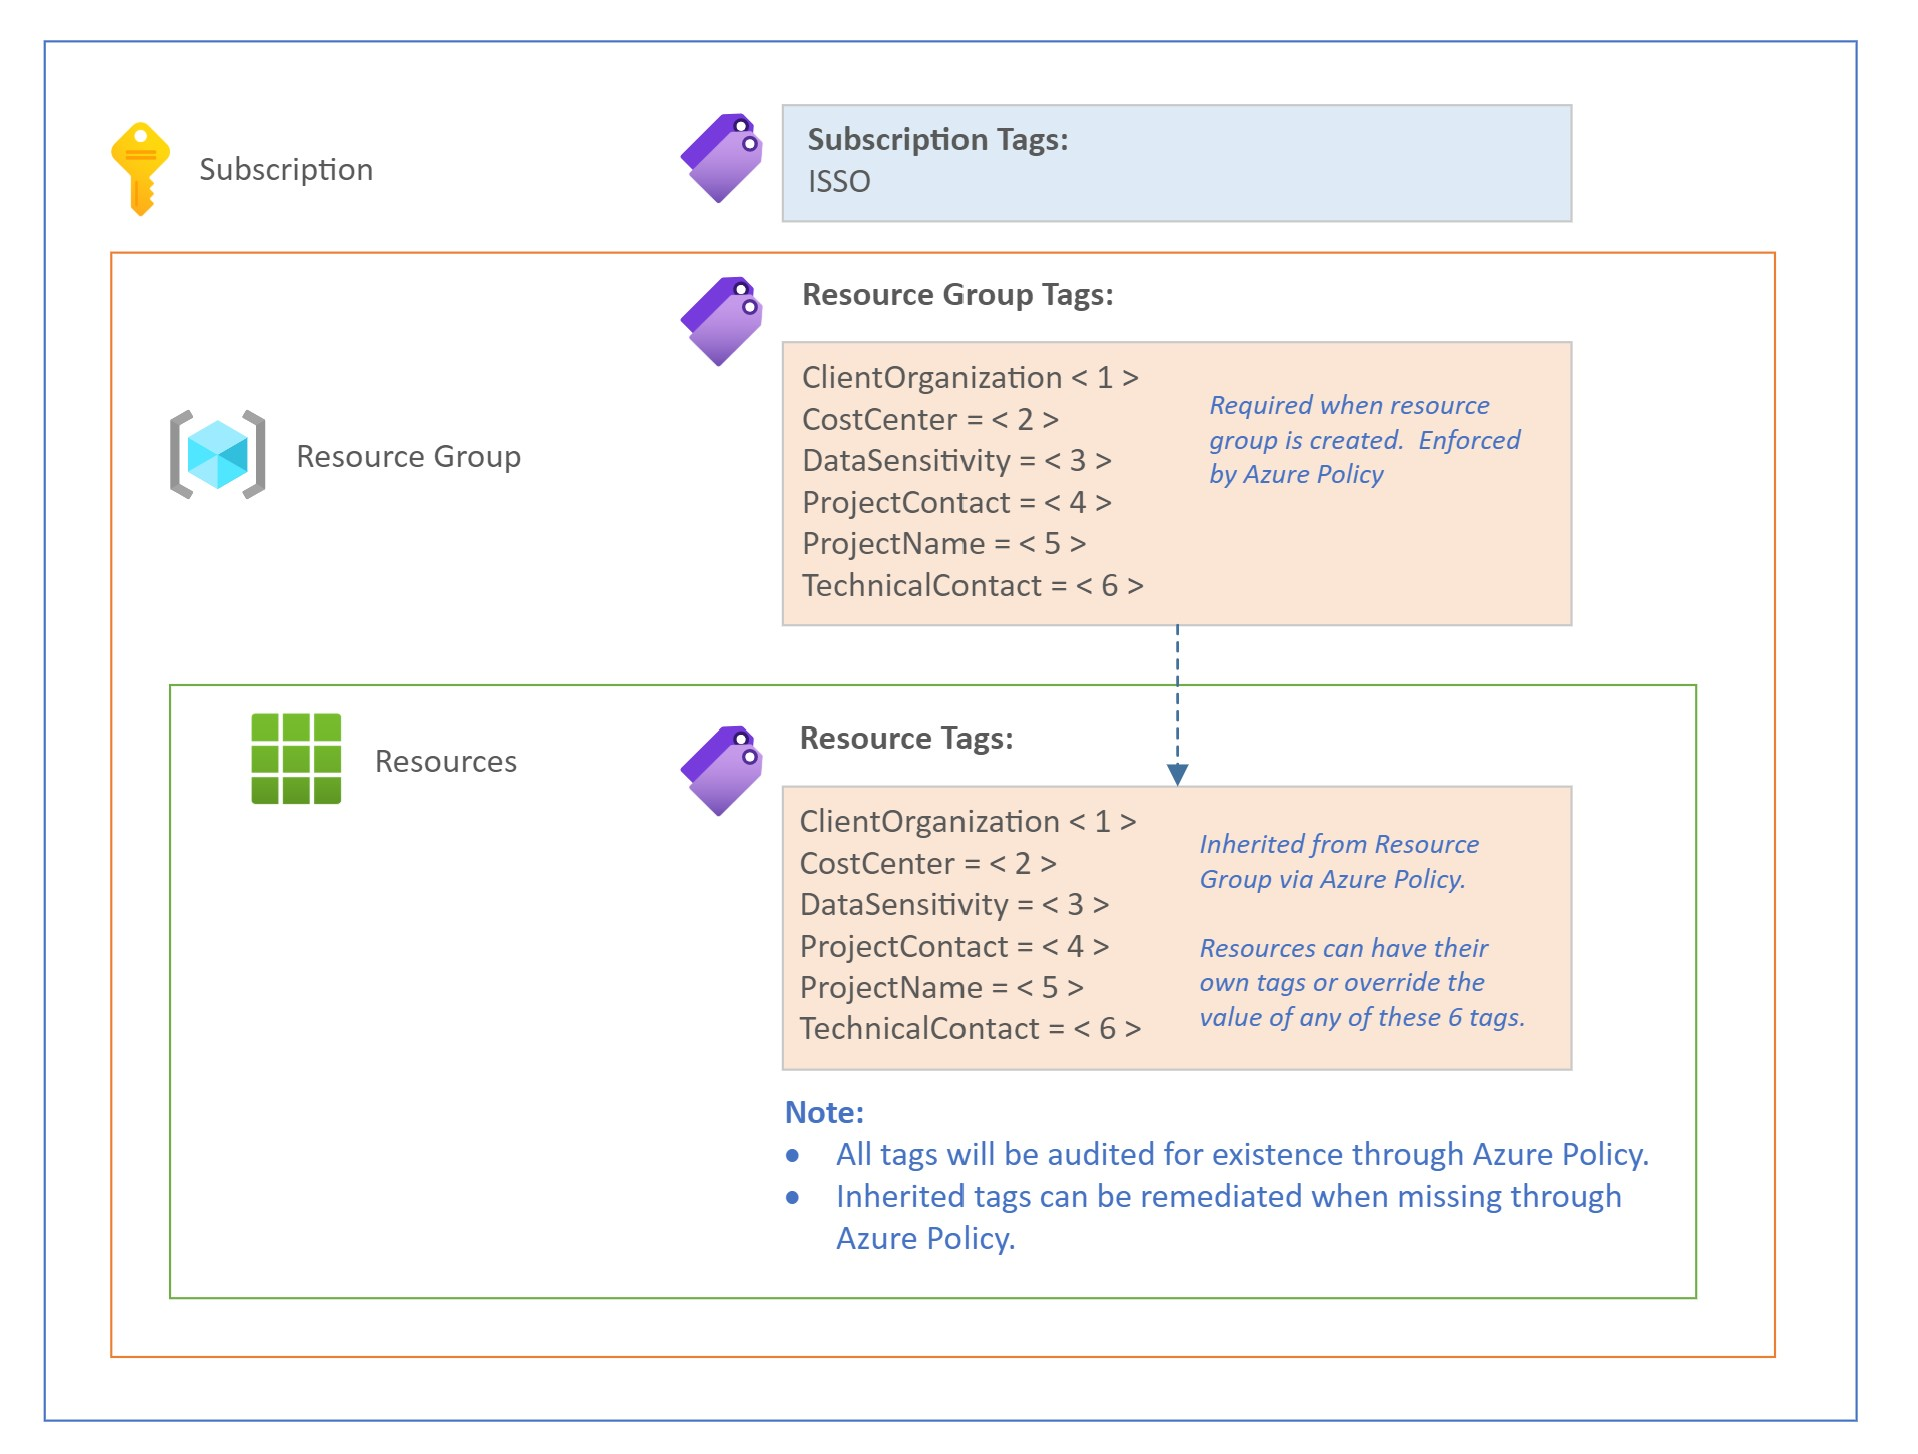
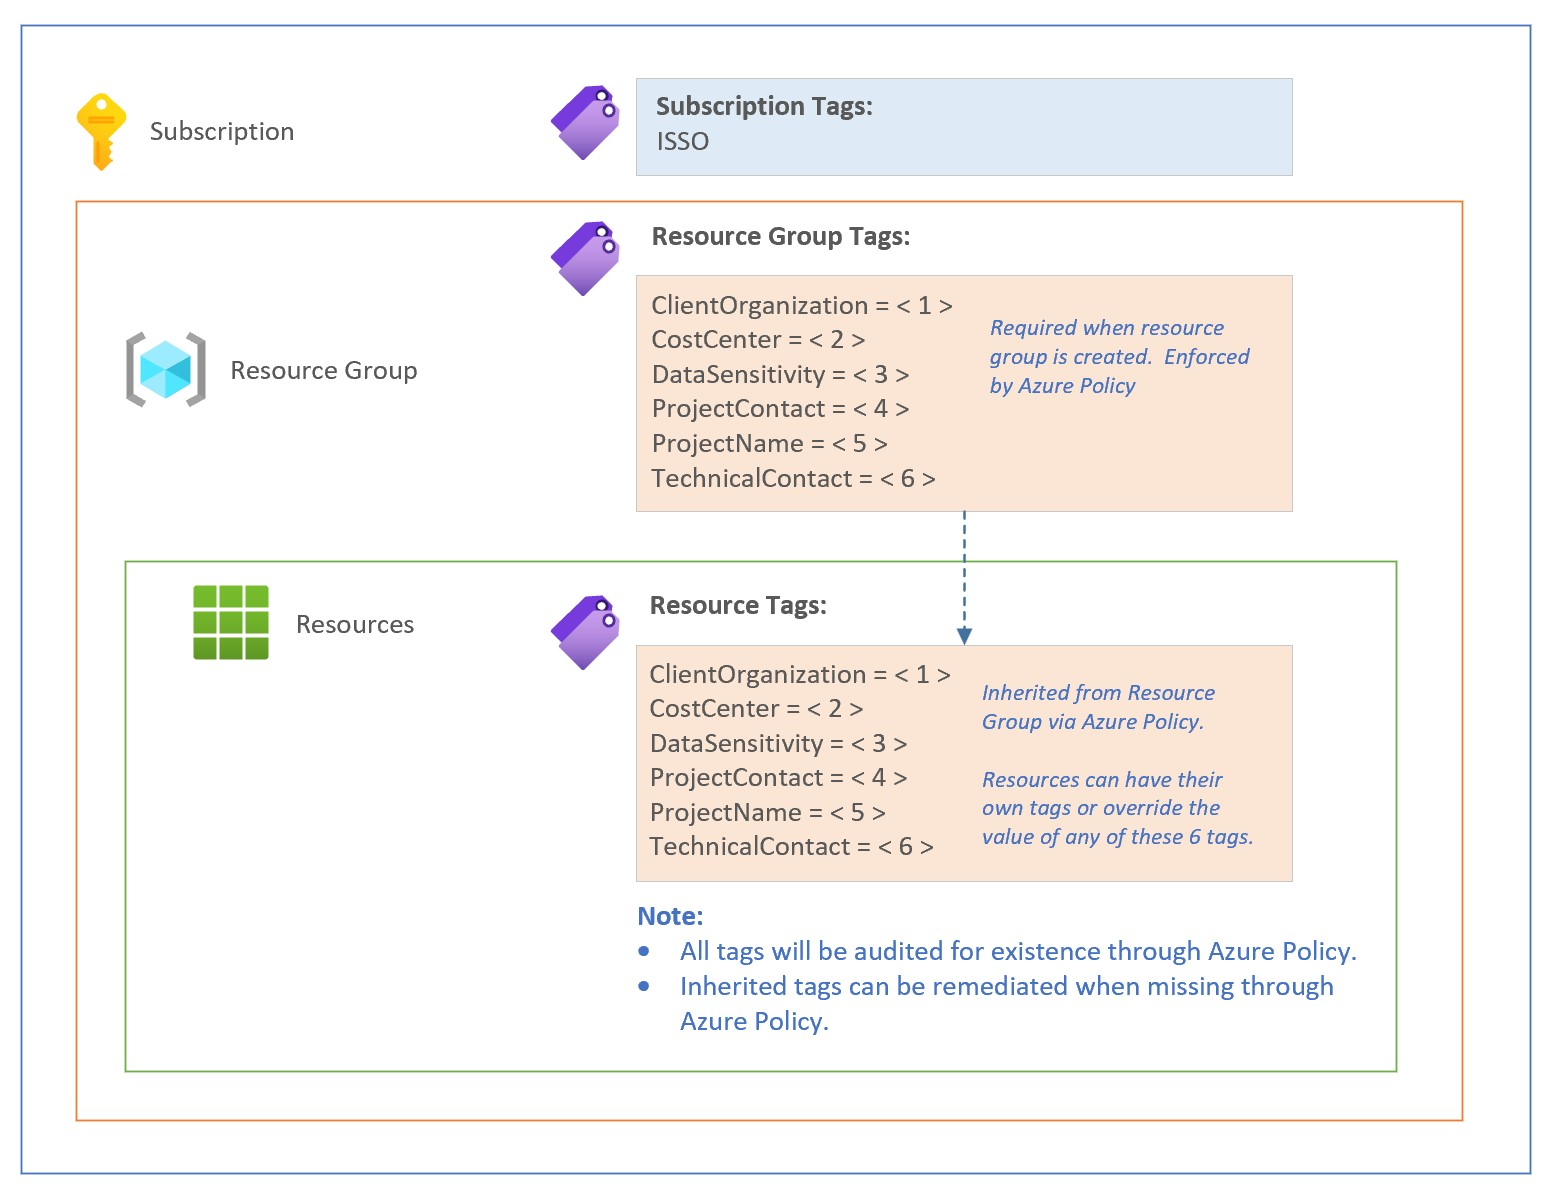
Revise documentation (#18)
* Fix typo

* Fix tag diagram

Changed region(s): [[0.0, 0.0, 0.9834, 0.9916]]

diff --git a/docs/architecture.md b/docs/architecture.md
@@ -135,7 +135,7 @@ Customers with existing management group structure can consider merging the reco
 Azure Landing Zones for Canadian Public Sector assumes that Azure Active Directory has been provisioned and configured based on department's requirements.  It is important to check the following configuration for Azure Active Directory:
 
 * License - Consider Azure PD Premium P2
-* Multi-Factor Authentication - Enabled for all useres
+* Multi-Factor Authentication - Enabled for all users
 * Conditional Access Policies - Configured based on location & devices
 * Privileged Identity Management (PIM) - Enabled for elevated access control. 
 * App Registration - Consider disabling for all users and created on-demand by CloudOps teams.
